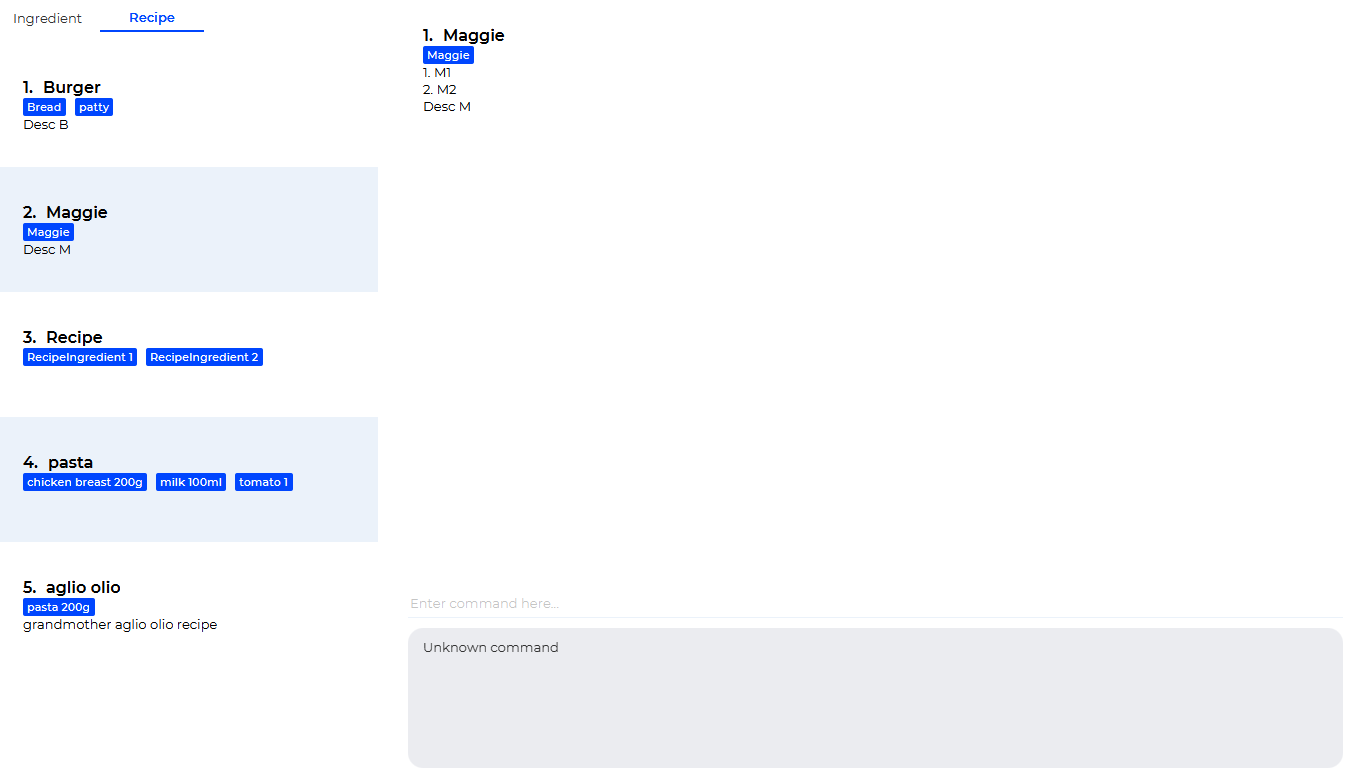
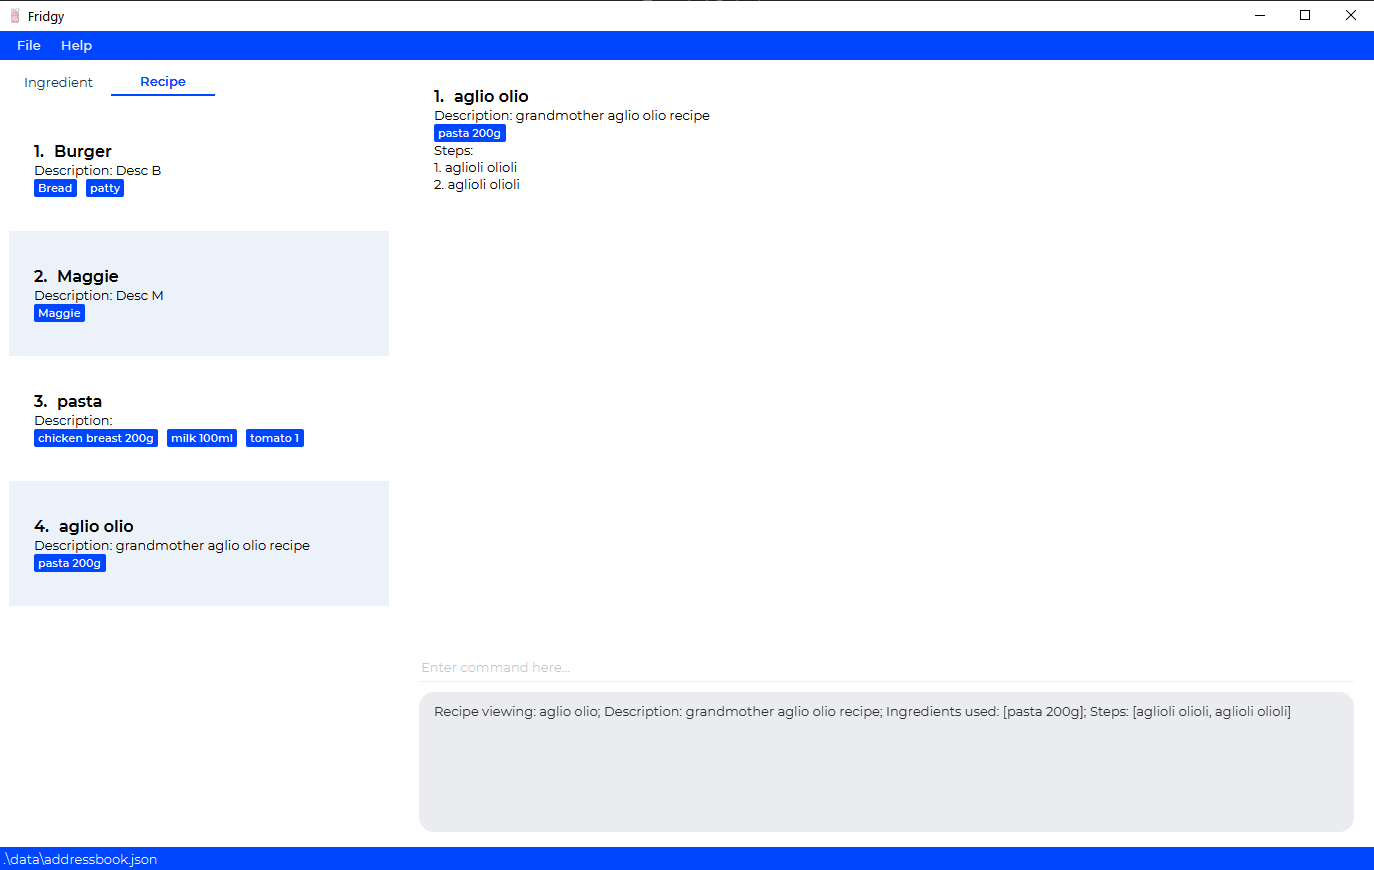
Fix displayed results from Commands and update UG

diff --git a/src/main/java/fridgy/model/recipe/Recipe.java b/src/main/java/fridgy/model/recipe/Recipe.java
@@ -102,13 +102,20 @@ public class Recipe implements Eq {
     @Override
     public String toString() {
         final StringBuilder builder = new StringBuilder();
-        builder.append(getName())
-                .append("; recipeIngredients: ")
+        builder.append(getName());
+        Optional<String> description = getDescription();
+        if (description.isPresent()) {
+            builder.append("; Description: ")
+                    .append(getDescription().orElse(""));
+        }
+        builder.append("; Ingredients used: ")
                 .append(getIngredients())
-                .append("; step: ")
-                .append(getSteps())
-                .append("; description: ")
-                .append(getDescription().orElse(""));
+                .append("; Steps:");
+
+        int count = 1;
+        for (Step step : getSteps()) {
+            builder.append(" ").append(count++).append(". ").append(step);
+        }
 
         return builder.toString();
     }

diff --git a/src/main/java/fridgy/ui/RecipeCard.java b/src/main/java/fridgy/ui/RecipeCard.java
@@ -62,9 +62,9 @@ public class RecipeCard extends UiPart<Region> {
                 .forEach(ingredient -> ingredients.getChildren().add(
                         new Label(UiUtil.truncateText(ingredient.getName(), INGREDIENT_CHAR_LIMIT)
                         )));
-        description.setText(recipeDescription);
+        description.setText("Description: " + recipeDescription);
         // This will automatically show / hide steps label
-        steps.setText(UiUtil.numberedList(recipe.getSteps()));
+        steps.setText("Steps:\n" + UiUtil.numberedList(recipe.getSteps()));
         steps.setVisible(isStepsVisible);
         steps.managedProperty().bind(steps.visibleProperty());
     }

diff --git a/src/main/java/fridgy/logic/commands/EditCommand.java b/src/main/java/fridgy/logic/commands/EditCommand.java
@@ -43,7 +43,7 @@ public class EditCommand extends Command {
             + "Example: " + COMMAND_WORD + " 1 "
             + CliSyntax.PREFIX_QUANTITY + "91234567 ";
 
-    public static final String MESSAGE_EDIT_INGREDIENT_SUCCESS = "Edited Ingredient: %1$s";
+    public static final String MESSAGE_EDIT_INGREDIENT_SUCCESS = "Edited Ingredient:\n%1$s";
     public static final String MESSAGE_NOT_EDITED = "At least one field to edit must be provided.";
     public static final String MESSAGE_DUPLICATE_INGREDIENT = "This ingredient already exists in the Inventory.";
 

diff --git a/src/main/java/fridgy/logic/commands/recipe/AddRecipeCommand.java b/src/main/java/fridgy/logic/commands/recipe/AddRecipeCommand.java
@@ -35,7 +35,7 @@ public class AddRecipeCommand extends RecipeCommand {
             + PREFIX_STEP + " Put the patty between the buns. "
             + PREFIX_DESCRIPTION + " Great burger! ";
 
-    public static final String MESSAGE_SUCCESS = "New recipe added: %1$s";
+    public static final String MESSAGE_SUCCESS = "New recipe added:\n%1$s";
     public static final String MESSAGE_DUPLICATE_RECIPE = "This recipe already exists in the Inventory";
 
     private final Recipe toAdd;

diff --git a/src/main/java/fridgy/logic/commands/AddCommand.java b/src/main/java/fridgy/logic/commands/AddCommand.java
@@ -39,7 +39,7 @@ public class AddCommand extends Command {
             + PREFIX_TAG + " fruit "
             + PREFIX_TAG + " sweet";
 
-    public static final String MESSAGE_SUCCESS = "New ingredient added: %1$s";
+    public static final String MESSAGE_SUCCESS = "New ingredient added:\n%1$s";
     public static final String MESSAGE_DUPLICATE_INGREDIENT = "This ingredient already exists in the Inventory";
 
     private final Ingredient toAdd;

diff --git a/src/main/java/fridgy/logic/commands/DeleteCommand.java b/src/main/java/fridgy/logic/commands/DeleteCommand.java
@@ -23,7 +23,7 @@ public class DeleteCommand extends Command {
             + "Parameters: INDEX (must be a positive integer)\n"
             + "Example: " + COMMAND_WORD + " 1";
 
-    public static final String MESSAGE_DELETE_INGREDIENT_SUCCESS = "Deleted Ingredient: %1$s";
+    public static final String MESSAGE_DELETE_INGREDIENT_SUCCESS = "Deleted Ingredient:\n%1$s";
 
     private final Index targetIndex;
 

diff --git a/src/main/java/fridgy/logic/commands/ClearCommand.java b/src/main/java/fridgy/logic/commands/ClearCommand.java
@@ -12,7 +12,7 @@ import fridgy.model.Inventory;
 public class ClearCommand extends Command {
 
     public static final String COMMAND_WORD = "clear";
-    public static final String MESSAGE_SUCCESS = "Description book has been cleared!";
+    public static final String MESSAGE_SUCCESS = "Inventory has been cleared!";
 
 
     @Override

diff --git a/src/main/java/fridgy/logic/commands/recipe/DeleteRecipeCommand.java b/src/main/java/fridgy/logic/commands/recipe/DeleteRecipeCommand.java
@@ -23,7 +23,7 @@ public class DeleteRecipeCommand extends RecipeCommand {
             + RECIPE_KEYWORD
             + " 1";
 
-    public static final String MESSAGE_SUCCESS = "Recipe deleted: %1$s";
+    public static final String MESSAGE_SUCCESS = "Recipe deleted:\n%1$s";
 
     private final Index target;
 

diff --git a/docs/UserGuide.md b/docs/UserGuide.md
@@ -21,13 +21,17 @@ Fridgy is a **desktop app for managing an inventory of food as well as a list of
 
 - Words between `<` and`>` are parameters to be supplied by the user.
 
-  e.g. in `add ingredient -n <name>`, `<name>` is a parameter which can be used as `add ingredient -n tomato`.
+  e.g. in `add ingredient -n <name>`, `<name>` is a parameter which can be used as:<br />`add ingredient -n tomato`.
 
 - Items in square brackets are optional.
 
   e.g. `add ingredient -n <name> [-d <description>]` can be used as
      1. `add ingredient -n tomato -d from Africa` or as
      2. `add ingredient -n tomato`
+     
+  e.g. `add ingredient -n <name> -q <quantity>[<units>]` can be used as 
+     1. `add ingredient -n chicken -q 2` or as
+     2. `add ingredient -n chicken -q 2kg`
 
 - Items with `…` after them can be used multiple times.
 
@@ -41,7 +45,7 @@ Pops out a window that leads the user to [User Guide](https://ay2122s1-cs2103t-w
 ### Exit:
 `exit`
 
-Closes the program.
+Exits the program.
 
 ## Ingredients
 
@@ -51,72 +55,93 @@ Closes the program.
 Add an ingredient to the inventory of ingredients. 
 - Any expired ingredients will be automatically tagged as `expired`.
 - Any expiring (within 7 days from current date) will be automatically tagged as `expiring`.
-- Acceptable ingredient units are:
-  1. grams: `g`
-  2. litres: `l`
-- Acceptable prefixes for units are:
-  1. milli- : `m` (i.e. `ml` for millilitres)
-  2. kilo- : `k` (i.e. `kg` for kilograms)
-- All units will be converted to grams and litres, to 3 decimal places.
+- For Quantity, units of measurement are not necessary, but the following are accepted: 
+  - Acceptable ingredient units are:
+    1. grams: `g`
+    2. litres: `l`
+  - Acceptable prefixes for units are:
+    1. milli- : `m` (i.e. `ml` for millilitres)
+    2. kilo- : `k` (i.e. `kg` for kilograms)
+  - All units will be converted to grams or litres, to 3 decimal places.
 
 Format: `add ingredient -n <name> -q <quantity>[<units>] [-d <description>] -e <expiry date> [t <tags>]`
 
-Examples:
+Example(s):
 1. `add ingredient -n tomato -d from africa -q 500 -e 27-09-2021 -t sweet`
-    <br />Expected Output:<br />`New ingredient added: tomato; Quantity: 500; Expiry Date: 27-09-2021; Description: from africa; Tags: [sweet][expired]`
+    <br />Expected Output:<br />
+    ```
+    New ingredient added: 
+    tomato; Quantity: 500; Expiry Date: 27-09-2021; Description: from africa; Tags: [expired][sweet]
+    ```
 
 
-2. `add ingredient -n milk -d fresh -q 500ml -e 27-09-2021`
-    <br />Expected Output:<br />`New ingredient added: milk; Quantity: 0.500 l; Expiry Date: 27-09-2021; Description: fresh; Tags: [expired]`
+2. `add ingredient -n milk -q 500ml -e 27-09-2021`
+    <br />Expected Output:<br />
+    ```
+    New ingredient added:
+    milk; Quantity: 0.500 l; Expiry Date: 27-09-2021; Tags: [expired]
+    ```
 
 
-3. `add ingredient -n flour -d fresh -q 500g -e 27/09/2021`
-    <br />Expected Output:<br />`New ingredient added: flour; Quantity: 500.000 g; Expiry Date: 27-09-2021; Description: fresh; Tags: [expired]`
+3. `add ingredient -n flour -d fresh -q 500g -e 27-09-2021`
+    <br />Expected Output:<br />
+    ```
+    New ingredient added:
+    flour; Quantity: 500.000 g; Expiry Date: 27-09-2021; Description: fresh; Tags: [expired]
+    ```
 
 
 ### Delete Ingredients:
 `delete ingredient`
 
-Delete an ingredient from the inventory of ingredients
+Delete an ingredient from the inventory of ingredients.
 
 Format: `delete ingredient <index>`
 
-Example:
+Example(s):
 1. `delete ingredient 1`
-    <br />Expected Output:<br />`Deleted Ingredient: flour; Quantity: 500.000 g; Expiry Date: 27-09-2021; Description: fresh; Tags: [expired]`
+    <br />Expected Output:<br />
+    ```
+    Deleted Ingredient:
+    tomato; Quantity: 500; Expiry Date: 27-09-2021; Description: from africa; Tags: [expired][sweet]
+    ```
 
 ### Edit Ingredients:
 `edit ingredient`
 
-Edit an ingredient from the inventory of ingredients
+Edit an ingredient from the inventory of ingredients.
 
 Format: `edit ingredient <index> -<field flag> <new data>`
 
-Example: 
+Example(s): 
 1. `edit ingredient 1 -d juicy`
-<br />Expected Output:<br />`Edited Ingredient: Watermelon; Quantity: 1; Expiry Date: 20-10-2021; Description: juicy; Tags: [expiring][melon][water]`
+<br />Expected Output:<br />
+    ```
+    Edited Ingredient: 
+    Watermelon; Quantity: 1; Expiry Date: 20-10-2021; Description: juicy; Tags: [expiring][melon][water]
+    ```
 
 ### Clear Ingredients:
-`clear`
+`clear ingredient`
 
-Clear all the ingredients from the inventory of ingredients
+Clear all the ingredients from the inventory of ingredients.
 
-Format: `clear`
+Format: `clear ingredient`
 
-Example:
-1. `clear`
-<br />Expected Output:<br />`Description book has been cleared!`
+Example(s):
+1. `clear ingredient`
+<br />Expected Output:<br />`Inventory has been cleared!`
 
 ### Find Ingredients:
 `find ingredient`
 
-Find an ingredient in the inventory based on keyword(s) from the name of the item
+Find an ingredient in the inventory based on a user-inputted keyword(s) from the name of the item.
 
 Format: `find ingredient <keyword>`
 
-Examples:
+Example(s):
 1. `find ingredient potato`
-Expected Output:
+<br />Expected Output:<br />
 ![img.png](images/findIngredient1.png)
 
 ### List Ingredients:
@@ -126,33 +151,82 @@ List all the ingredients again after `Find` Operation.
 
 Format: `list ingredient`
 
+Example(s):
+1. `list ingredient`
+<br />Expected Output:<br />
+![img.png](images/listIngredient1.png)
+
 ## Recipes
 
 ### Add Recipes:
 `add recipe`
 
-Add a recipe to the library of recipes
+Add a recipe to the library of recipes.
 
 Format: `add recipe -n <name> -i <ingredient> <quantity> [-d <optional description>] -s <steps>...`
 
-Examples:
-1. `add recipe -n pasta -i tomato 1 -i milk 100ml -i chicken breast 200g -s 1. Chicken chicken -s 2. Chicken chicken`
-    <br />Expected Output: `New recipe added: pasta; recipe ingredients: [tomato 1, chicken breast 200g, milk 100ml]; step: [1. Chicken chicken, 2. Chicken chicken]`
+Example(s):
+1. 
+    ```
+    add recipe -n pasta -i tomato 1 -i milk 100ml -i chicken breast 200g -s Chicken thicc -s Thicc chicken
+    ```
+    Expected Output:
+    ```
+    New recipe added:
+    pasta; Ingredients used: [tomato 1, chicken breast 200g, milk 100ml]; Steps: 1. Chicken thicc 2. Thicc chicken
+    ```
 
-
-2. `add recipe -n aglio olio -i pasta 200g -d grandmother aglio olio recipe -s 1. aglioli olioli 2. aglioli olioli`
-    <br />Expected Output: `New recipe added: aglio olio; recipe ingredients: [pasta 200g]; step: [1. aglioli olioli 2. aglioli olioli]; description: grandmother aglio olio recipe`
+2. 
+    ```
+    add recipe -n aglio olio -i pasta 200g -d grandmother aglio olio recipe -s aglioli olioli -s aglioli olioli
+    ```
+    Expected Output:
+    ```
+    New recipe added:
+    aglio olio; Description: grandmother aglio olio recipe; Ingredients used: [pasta 200g]; Steps: 1. aglioli olioli 2. aglioli olioli
+    ```
 
 ### Delete Recipes:
 `delete recipe`
 
-Delete a recipe from the library of recipes
+Delete a recipe from the library of recipes.
 
 Format: `delete recipe <index>`
 
-Examples:
+Example(s):
 1. `delete recipe 1`
-    <br />Expected Output:<br />`Your recipe for 'mom's spaghetti' has been deleted.`
+<br />Expected Output:
+     ```
+    Recipe deleted:
+    pasta; Ingredients used: [tomato 1, chicken breast 200g, milk 100ml]; Steps: 1. Chicken thicc 2. Thicc chicken
+     ```
+2. `delete recipe 2`
+   <br />Expected Output:
+    ```
+    Recipe deleted:
+    aglio olio; Description: grandmother aglio olio recipe; Ingredients used: [pasta 200g]; Steps: 1. aglioli olioli 2. aglioli olioli
+    ```
+
+### Find Recipes:
+`find recipe`
+
+Search for a recipe from the library of recipes based on a user-inputted keyword(s) from the name of the item.
+
+Format: `find recipe <keyword>...`
+
+Example(s): 
+1. `find recipe aglio`
+
+
+### List Recipes: 
+`list recipe`
+
+Lists out all the recipes again after `Find` operation
+
+Format: `list recipe`
+
+Example(s):
+1. `list recipe`
 
 ### View Recipes:
 `view recipe`
@@ -161,9 +235,10 @@ Expand the recipe and view the detailed steps in a bigger window.
 
 Format: `view recipe <index>`
 
-Examples: 
-1. `view recipe 2`<br />Expected Output:<br />
+Example(s):
+1. `view recipe 4`<br />Expected Output:<br />
 ![viewRecipe](images/viewRecipe1.png)
+
 -----
 # Command Summary
 
@@ -171,10 +246,12 @@ Action | Format
 --------|------------------
 **Add Ingredient** | `add ingredient -n <name> -q <quantity>[<units>] [-d <description>] -e <expiry date>`
 **Delete Ingredient** | `delete ingredient <index>`
-**Edit Ingredient** | `edit ingredient <index> -<field flag> <new data>`
+**Edit Ingredient** | `edit ingredient <index> (-<field flag> <new data>)...`
 **Clear Ingredient** | `clear`
-**Find Ingredient** | `find ingredient <keyword>`
+**Find Ingredient** | `find ingredient <keyword>...`
 **List Ingredient** | `list ingredient`
 **Add Recipe** | `add recipe -n <name> -i <ingredient> <quantity> [-d <optional description>] -s <steps>...`
 **Delete Recipe** | `delete recipe <index>`
+**Find Recipe** | `find recipe <keyword>...`
+**List Recipe** | `list recipe`
 **View Recipe** | `view recipe <index>`
